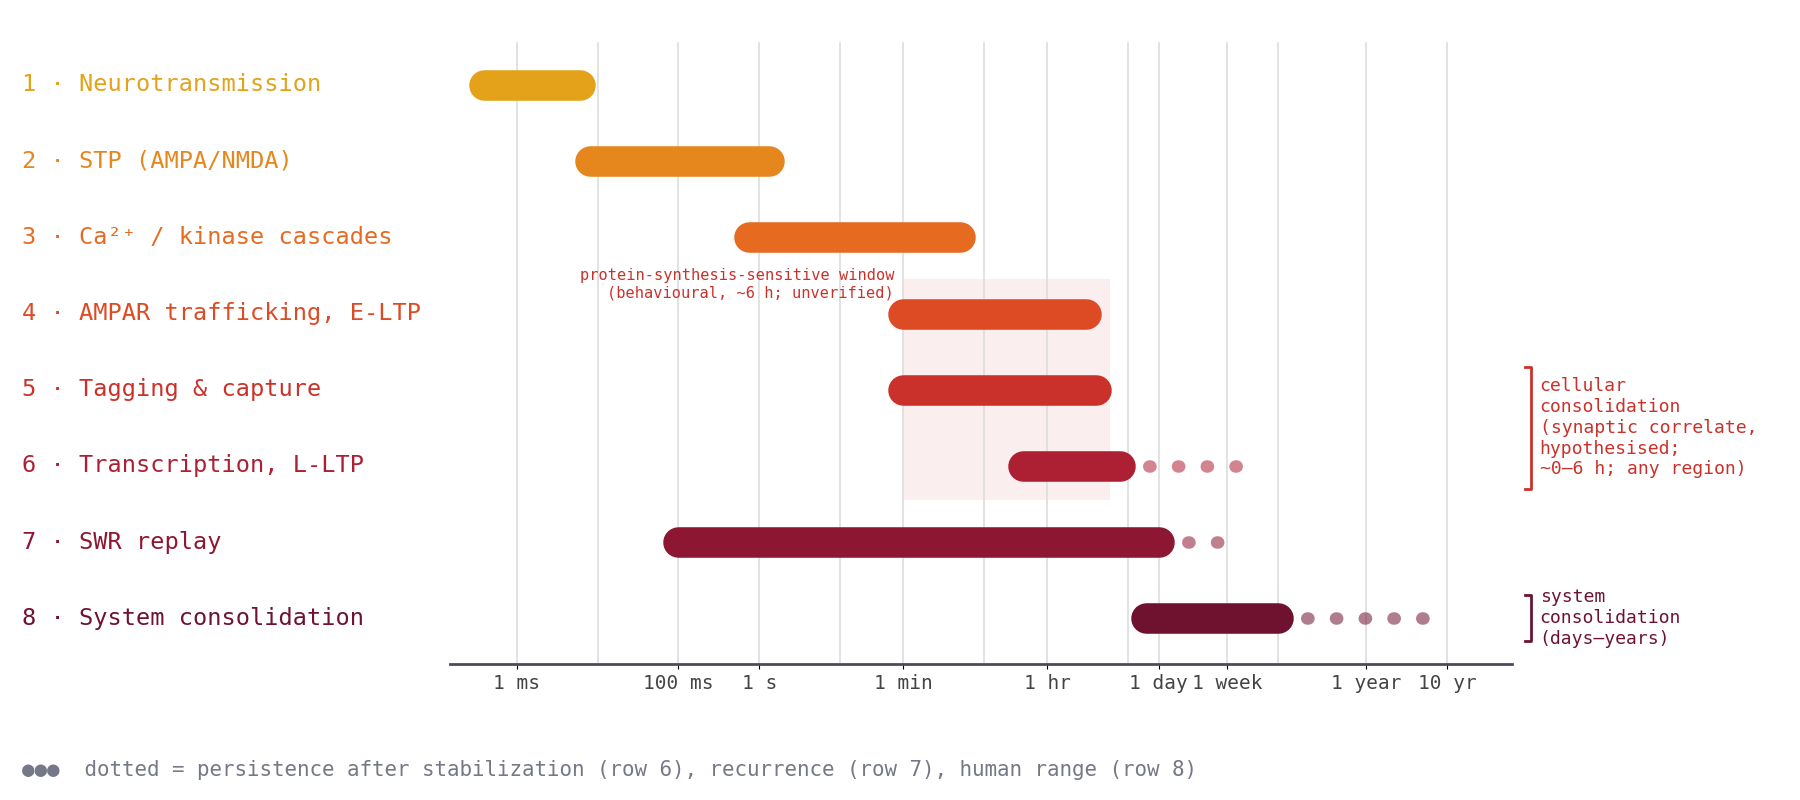
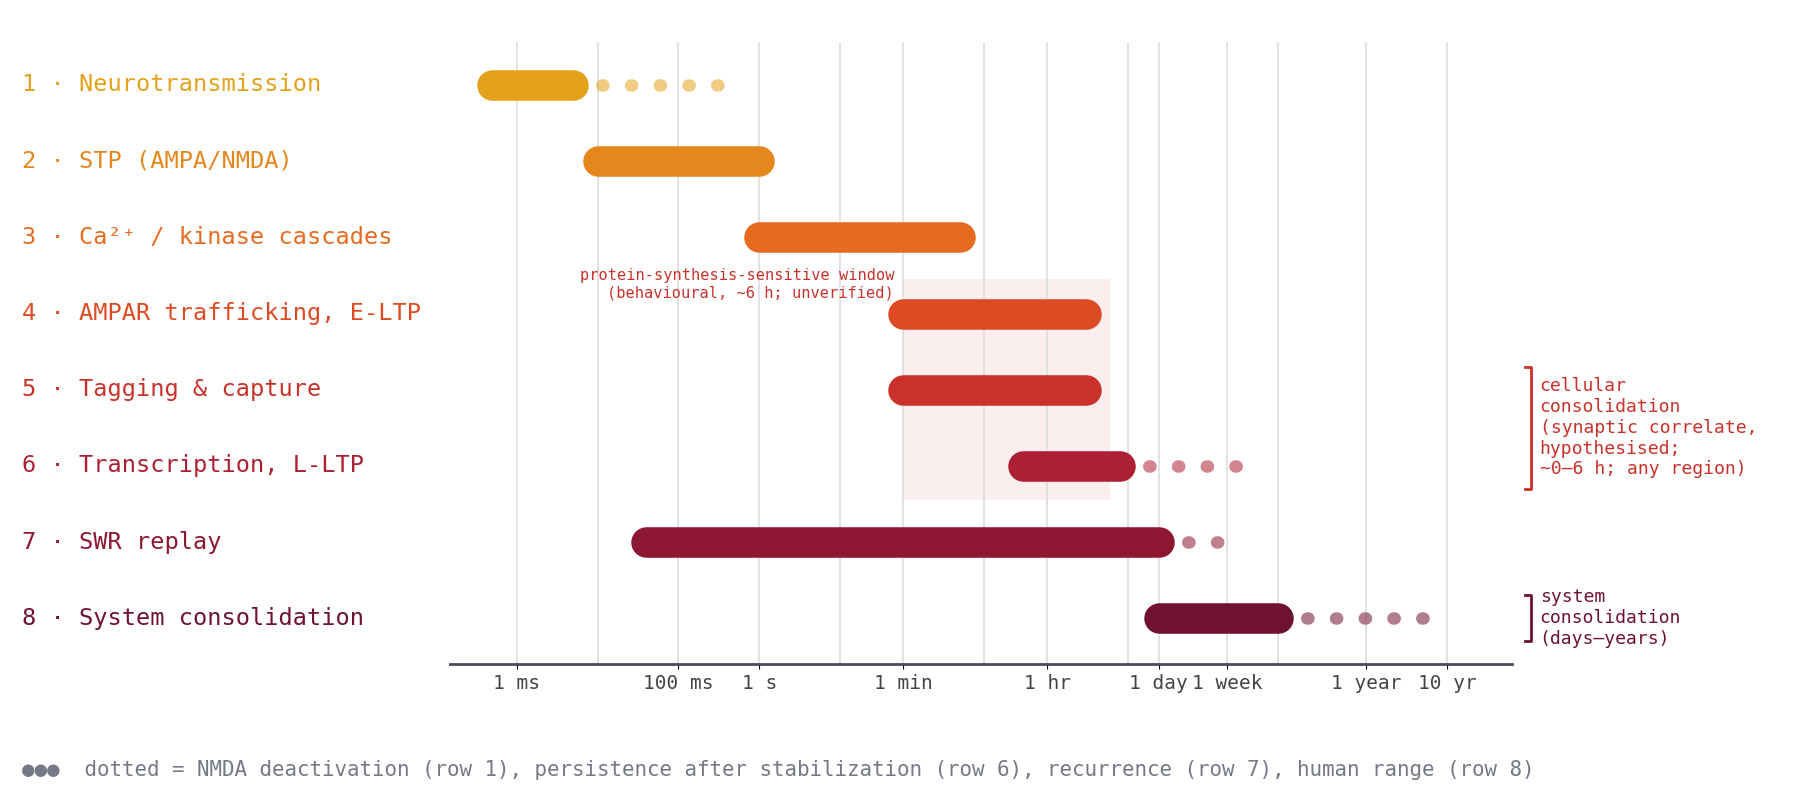
Align upscaling spans across all timescale figures
plasticity_timescales.UP_SPANS (from Table 1 of the up/down model doc)
now drives figures/timescale_axis.png, model Fig. 1 and the U1 reference
row of the downscaling figure. Tails are drawn in every figure: NMDA
deactivation (U1), persistence (U6), replay recurrence (U7), human range
of system consolidation (U8), plus D11 and D13. Captions updated.

diff --git a/make_fig_plasticity_overview.py b/make_fig_plasticity_overview.py
@@ -2,7 +2,7 @@
 
 1. docs/figures/plasticity_timescales_all.png (Figure 1): upscaling U1-U8 and downscaling D1-D14 on one log time
    axis, one colour per process (hot for upscaling, cold for downscaling). Downscaling spans, order and colours come
-   from plasticity_timescales.py; rows are sorted by onset. Spans are order-of-magnitude summaries, not fitted
+   from plasticity_timescales.py, as do the upscaling spans; downscaling rows are sorted by onset. Spans are order-of-magnitude summaries, not fitted
    values. The dashed line is the 6 h behavioural window (personal communication, unverified).
 2. docs/figures/plasticity_combination_chain.png (Figure 2): the chain of model states with the processes that raise
    (left) or lower (right) each one.
@@ -16,24 +16,19 @@ import matplotlib.pyplot as plt
 import numpy as np
 from matplotlib.patches import FancyBboxPatch
 
-from plasticity_timescales import (DOWN_COLOURS, DOWN_ORDER, DOWN_SPANS, MS, S, MIN, H, D, MO, YR, cold, hot,
-                                   lighten)
+from plasticity_timescales import (DOWN_COLOURS, DOWN_ORDER, DOWN_SPANS, UP_COLOURS, UP_ORDER, UP_SPANS, MS, S, MIN,
+                                   H, D, MO, YR, cold, hot, lighten)
 
 PT = 0.72                       # points per pixel at dpi 100
 INK, GREY, GRID = "#1A1A1A", "#6B6B6B", "#D9D8D3"
 UP_EDGE, DN_EDGE = "#D0393B", "#2F73D0"   # Figure 2 box outlines
 plt.rcParams["font.family"] = ["Arial", "DejaVu Sans"]
 
-UPSCALING = [
-    ("U1 Neurotransmission", 0.5 * MS, 5 * MS),
-    ("U2 STP", 10 * MS, 1 * S),
-    ("U3 Ca²⁺/kinase cascades", 1 * S, 5 * MIN),
-    ("U4 AMPAR trafficking, early-LTP", 1 * MIN, 3 * H),
-    ("U5 Tagging and capture", 1 * MIN, 3 * H),
-    ("U6 Late-LTP, to stabilisation", 30 * MIN, 8 * H),
-    ("U7 SWR replay", 40 * MS, 3 * D),
-    ("U8 System consolidation", 1 * D, 10 * YR),
-]
+UP_LABELS = {
+    "U1": "Neurotransmission", "U2": "STP", "U3": "Ca²⁺/kinase cascades", "U4": "AMPAR trafficking, early-LTP",
+    "U5": "Tagging and capture", "U6": "Late-LTP, to stabilisation", "U7": "SWR replay",
+    "U8": "System consolidation",
+}
 DOWN_LABELS = {
     "D1": "Vesicle-pool depletion", "D2": "Presynaptic GPCR inhibition",
     "D3": "SWR-triggered NMDAR depression", "D4a": "NMDAR → calcineurin/PP1 LTD", "D4b": "eCB → CB1 t-LTD",
@@ -42,10 +37,10 @@ DOWN_LABELS = {
     "D11": "Homer1a sleep scaling", "D12": "CaMKIV/TNFα scaling", "D13": "Pruning, active forgetting",
     "D14": "Protein turnover, UPS",
 }
-# (label, start, end, colour): upscaling in model order with hot colours; downscaling sorted by onset
-# (plasticity_timescales.DOWN_ORDER) with cold colours and the shared spans.
-UP_ROWS = [(lab, a, b, c) for (lab, a, b), c in zip(UPSCALING, hot(len(UPSCALING)))]
-DOWN_ROWS = [(f"{k} {DOWN_LABELS[k]}", *DOWN_SPANS[k][:2], DOWN_COLOURS[k]) for k in DOWN_ORDER]
+# (label, start, end, tail end or None, colour): upscaling in model order with hot colours; downscaling sorted by
+# onset with cold colours. Spans, order and colours all come from plasticity_timescales.py.
+UP_ROWS = [(f"{k} {UP_LABELS[k]}", *UP_SPANS[k], UP_COLOURS[k]) for k in UP_ORDER]
+DOWN_ROWS = [(f"{k} {DOWN_LABELS[k]}", *DOWN_SPANS[k], DOWN_COLOURS[k]) for k in DOWN_ORDER]
 TICKS = [(MS, "1 ms"), (S, "1 s"), (MIN, "1 min"), (H, "1 h"), (D, "1 d"), (MO, "1 mo"), (YR, "1 yr"),
          (10 * YR, "10 yr")]
 
@@ -83,14 +78,18 @@ def timescales(out="docs/figures/plasticity_timescales_all.png"):
     x6 = x_of(6 * H)
     ax.plot([x6, x6], [112, y_bottom], color="#B4B2A9", lw=1.5, ls=(0, (4, 4)), zorder=1)
     text(ax, x6, y_bottom + 30, "6 h behavioural window (unverified)", 19, colour=GREY, ha="center")
+    text(ax, x_label, y_bottom + 30, "dotted = extended or recurring tail", 19, colour=GREY)
 
     y = top - row * 0.55
     for title, rows, key in (("Upscaling", UP_ROWS, hot(3)[1]), ("Downscaling", DOWN_ROWS, cold(3)[1])):
         box(ax, x_label, y - 9, x_label + 18, y + 9, lighten(key, 0.55), key, lw=1.6, r=3)
         text(ax, x_label + 29, y, title, 23, weight="bold")
         y += row
-        for label, a, b, colour in rows:
+        for label, a, b, tail, colour in rows:
             text(ax, x_label, y, label, 20)
+            if tail:
+                xs = np.arange(x_of(b) + 9, x_of(tail), 9)
+                ax.scatter(xs, np.full_like(xs, y), s=16, color=lighten(colour, 0.35), zorder=2, lw=0)
             box(ax, x_of(a), y - 10.5, x_of(b), y + 10.5, lighten(colour, 0.55), colour, lw=1.6, r=5)
             y += row
         y += row * 0.35

diff --git a/figures/src/make_timescale_axis.py b/figures/src/make_timescale_axis.py
@@ -1,8 +1,8 @@
 """Regenerate figures/timescale_axis.png (model Fig. 1).
 
-Bar extents are the time constants of hippocampal_plasticity_model.md §1 (seconds, log axis).
-Colours: one hot colour per process (plasticity_timescales.hot), as in the other timescale figures.
-Solid bar = characteristic duration; dotted tail = persistence after stabilization (row 6),
+Bar extents, tails and colours come from plasticity_timescales.py (UP_SPANS), shared with the model document's
+Fig. 1; one hot colour per process. Seconds, log axis.
+Solid bar = characteristic duration; dotted tail = NMDA deactivation (row 1), persistence after stabilization (row 6),
 recurrence (row 7) or the human range beyond the rodent one (row 8).
 Brackets on the right mark the two kinds of consolidation (model §1, terminology). The shaded band is
 the behavioural protein-synthesis-sensitive window of cellular consolidation (~6 h after learning;
@@ -15,21 +15,14 @@ import sys
 from pathlib import Path
 
 sys.path.insert(0, str(Path(__file__).resolve().parents[2]))
-from plasticity_timescales import hot  # noqa: E402
+from plasticity_timescales import UP_COLOURS, UP_ORDER, UP_SPANS  # noqa: E402
 
 MIN, HR, DAY, WK, YR = 60.0, 3600.0, 86400.0, 7 * 86400.0, 365.25 * 86400.0
-# (label, colour, bar start, bar end, tail end or None), times in s; colours are filled in below
-ROWS = [
-    ("Neurotransmission",        None, 4e-4, 6e-3, None),
-    ("STP (AMPA/NMDA)",          None, 8e-3, 1.3, None),
-    ("Ca²⁺ / kinase cascades",   None, 0.75, 5 * MIN, None),
-    ("AMPAR trafficking, E-LTP", None, 1 * MIN, 3 * HR, None),
-    ("Tagging & capture",        None, 1 * MIN, 4 * HR, None),
-    ("Transcription, L-LTP",     None, 30 * MIN, 8 * HR, 14 * DAY),
-    ("SWR replay",               None, 0.1, 1 * DAY, 9 * DAY),
-    ("System consolidation",     None, 0.7 * DAY, 30 * DAY, 10 * YR),
-]
-ROWS = [(lab, c, a, b, tail) for (lab, _, a, b, tail), c in zip(ROWS, hot(len(ROWS)))]
+LABELS = {"U1": "Neurotransmission", "U2": "STP (AMPA/NMDA)", "U3": "Ca²⁺ / kinase cascades",
+          "U4": "AMPAR trafficking, E-LTP", "U5": "Tagging & capture", "U6": "Transcription, L-LTP",
+          "U7": "SWR replay", "U8": "System consolidation"}
+# (label, colour, bar start, bar end, tail end or None), times in s, from plasticity_timescales.py
+ROWS = [(LABELS[k], UP_COLOURS[k], *UP_SPANS[k]) for k in UP_ORDER]
 HOT = dict(cellular=ROWS[4][1], system=ROWS[7][1])
 TICKS = [(1e-3, "1 ms"), (0.1, "100 ms"), (1, "1 s"), (MIN, "1 min"), (HR, "1 hr"),
          (DAY, "1 day"), (WK, "1 week"), (YR, "1 year"), (10 * YR, "10 yr")]
@@ -74,8 +67,8 @@ for s in ("top", "right", "left"):
     ax.spines[s].set_visible(False)
 ax.spines["bottom"].set_color("#484c5e")
 ax.spines["bottom"].set_linewidth(2)
-fig.text(0.012, 0.03, "●●●  dotted = persistence after stabilization (row 6), recurrence (row 7), "
-         "human range (row 8)", fontsize=15, color="#757886")
+fig.text(0.012, 0.03, "●●●  dotted = NMDA deactivation (row 1), persistence after stabilization (row 6), "
+         "recurrence (row 7), human range (row 8)", fontsize=15, color="#757886")
 out = Path(__file__).resolve().parents[1] / "timescale_axis.png"
 fig.savefig(out, facecolor="white")
 print(out)

diff --git a/plasticity_timescales.py b/plasticity_timescales.py
@@ -1,15 +1,30 @@
 """Shared time spans and colours for the plasticity timescale figures.
 
 Used by make_fig_plasticity_overview.py (model document Fig. 1), figures/make_downscaling_timescale_axis.py and
-figures/src/make_timescale_axis.py, so the downscaling pathways have one set of spans and one order everywhere.
+figures/src/make_timescale_axis.py, so every process has one span, one order and one colour in all three figures.
 
-Spans are order-of-magnitude summaries of Table 2 in docs/plasticity_up_down_model_2026-11-06.md, not fitted values;
+Spans are order-of-magnitude summaries of Tables 1 and 2 in docs/plasticity_up_down_model_2026-11-06.md, not fitted values;
 where a source gives only "hours" or "days", the end is our rounding. Times in seconds.
 Colours: hot (amber to crimson) for upscaling, cold (teal to violet-blue) for downscaling, one per process.
 """
 from matplotlib.colors import LinearSegmentedColormap, to_hex
 
 MS, S, MIN, H, D, WK, MO, YR = 1e-3, 1.0, 60.0, 3600.0, 86400.0, 604800.0, 2.592e6, 3.156e7
+
+# Upscaling, from Table 1 of the model document (the newer source where hippocampal_plasticity_model.md §1 differs).
+# id -> (start, end, tail end or None). Tails: NMDA deactivation (U1, "hundreds of ms"), persistence after
+# stabilisation (U6), recurrence of replay (U7), and the human range of system consolidation (U8).
+UP_SPANS = {
+    "U1": (0.5 * MS, 5 * MS, 0.5 * S),
+    "U2": (10 * MS, 1 * S, None),
+    "U3": (1 * S, 5 * MIN, None),
+    "U4": (1 * MIN, 3 * H, None),
+    "U5": (1 * MIN, 3 * H, None),
+    "U6": (30 * MIN, 8 * H, 2 * WK),
+    "U7": (40 * MS, 1 * D, 9 * D),
+    "U8": (1 * D, 1 * MO, 10 * YR),
+}
+UP_ORDER = list(UP_SPANS)   # model order U1-U8, which is also roughly the order of onset
 
 # id -> (start, end, recurring/extended tail end or None)
 DOWN_SPANS = {
@@ -50,6 +65,7 @@ def cold(n):
     return _ramp(_COLD, n)
 
 
+UP_COLOURS = dict(zip(UP_ORDER, hot(len(UP_ORDER))))
 DOWN_COLOURS = dict(zip(DOWN_ORDER, cold(len(DOWN_ORDER))))
 
 

diff --git a/figures/make_downscaling_timescale_axis.py b/figures/make_downscaling_timescale_axis.py
@@ -13,8 +13,8 @@ import matplotlib.pyplot as plt
 import numpy as np
 
 sys.path.insert(0, str(Path(__file__).resolve().parents[1]))
-from plasticity_timescales import (DOWN_COLOURS, DOWN_ORDER, DOWN_SPANS, MS, S, MIN, H, D, WK, YR,  # noqa: E402
-                                   hot, lighten)
+from plasticity_timescales import (DOWN_COLOURS, DOWN_ORDER, DOWN_SPANS, UP_COLOURS, UP_SPANS,  # noqa: E402
+                                   MS, S, MIN, H, D, WK, YR, lighten)
 
 # Short pathway names; ids match the sections of hippocampal_downscaling_mechanisms.md (D4a is "4a").
 LABELS = {
@@ -29,8 +29,8 @@ LABELS = {
 MECHANISMS = [(k[1:], LABELS[k], *DOWN_SPANS[k], DOWN_COLOURS[k]) for k in DOWN_ORDER]
 
 # Upscaling process drawn on top as a time reference, as in figures/timescale_axis.png:
-# neurotransmission (AMPA/NMDA gating), ~0.5-5 ms per hippocampal_plasticity_model.md §1.
-REFERENCE = [("U1", "Neurotransmission", 0.5 * MS, 5 * MS, None, hot(2)[0])]
+# neurotransmission, with the same span, NMDA tail and colour as in the other timescale figures.
+REFERENCE = [("U1", "Neurotransmission", *UP_SPANS["U1"], UP_COLOURS["U1"])]
 
 TICKS = [(1 * MS, "1 ms"), (100 * MS, "100 ms"), (1 * S, "1 s"), (1 * MIN, "1 min"),
          (1 * H, "1 hr"), (1 * D, "1 day"), (1 * WK, "1 week"),
@@ -68,7 +68,7 @@ def main(out=Path(__file__).with_name("downscaling_timescale_axis.png")):
     ax.scatter([label_x + 0.05, label_x + 0.2, label_x + 0.35], [-1.2] * 3,
                s=90, color="#6b6f7a", clip_on=False)
     ax.text(label_x + 0.6, -1.2, "dotted = recurring / extended tail "
-            "(repeated sleep cycles, slow structural follow-through)",
+            "(NMDA deactivation, repeated sleep cycles, slow structural follow-through)",
             fontsize=13, color="#555a66", va="center")
     ax.text(label_x + 0.6, -1.75, "warm row above the dashed line = U1 neurotransmission, "
             "an upscaling process shown as a time reference",

diff --git a/docs/plasticity_up_down_model_2026-11-06.md b/docs/plasticity_up_down_model_2026-11-06.md
@@ -75,7 +75,7 @@ The processes run from milliseconds to years, and they overlap instead of handin
 
 ![All upscaling and downscaling processes on one logarithmic time axis, 8 upscaling in hot colours and 15 downscaling in cold colours](figures/plasticity_timescales_all.png)
 
-**Figure 1.** All upscaling and downscaling processes on one logarithmic time axis: 8 upscaling (hot colours, amber to crimson) and 15 downscaling (cold colours, teal to violet), one colour per process. Downscaling rows are sorted by onset, then by end. Bars are order-of-magnitude summaries of the two source documents, not fitted values. Where a source gives only "hours" or "days", the bar's end is our rounding. Figures 1 and 2 are drawn by `make_fig_plasticity_overview.py`.
+**Figure 1.** All upscaling and downscaling processes on one logarithmic time axis: 8 upscaling (hot colours, amber to crimson) and 15 downscaling (cold colours, teal to violet), one colour per process. Downscaling rows are sorted by onset, then by end. Dotted tails mark NMDA deactivation (U1), persistence after stabilisation (U6), recurring replay (U7), the human range of system consolidation (U8), and recurring or extended effects (D11, D13). Spans, tails and colours are shared with the two figures in the repository root's documents (`plasticity_timescales.py`). Bars are order-of-magnitude summaries of the two source documents, not fitted values. Where a source gives only "hours" or "days", the bar's end is our rounding. Figures 1 and 2 are drawn by `make_fig_plasticity_overview.py`.
 
 **Two meanings of "consolidation".** This document always says which one it means.
 

diff --git a/hippocampal_plasticity_model.md b/hippocampal_plasticity_model.md
@@ -39,7 +39,10 @@ event, and one is system consolidation.
 
 ![Eight plasticity and memory processes plotted on one logarithmic time axis from 1 ms to 10 years — bar position marks onset, length marks characteristic duration, and processes visibly overlap rather than handing off in strict sequence.](figures/timescale_axis.png)
 
-*Fig. 1 — The eight plasticity and memory processes on one log time axis. Brackets mark the
+*Fig. 1 — The eight plasticity and memory processes on one log time axis, one hot colour per process.
+Spans and tails are shared with the other timescale figures (`plasticity_timescales.py`, from Table 1 of
+`docs/plasticity_up_down_model_2026-11-06.md`), so they can differ slightly from the rounded constants in the
+table below; the dotted tail on row 1 is NMDA deactivation (hundreds of ms). Brackets mark the
 hypothesised synaptic correlate of cellular consolidation (rows 5–6) and system consolidation (row 8).
 Row 6's solid bar is the stabilization time; its dotted tail is persistence. The shaded band is the
 behavioural protein-synthesis-sensitive window (~6 h after learning; unverified), drawn on the same
